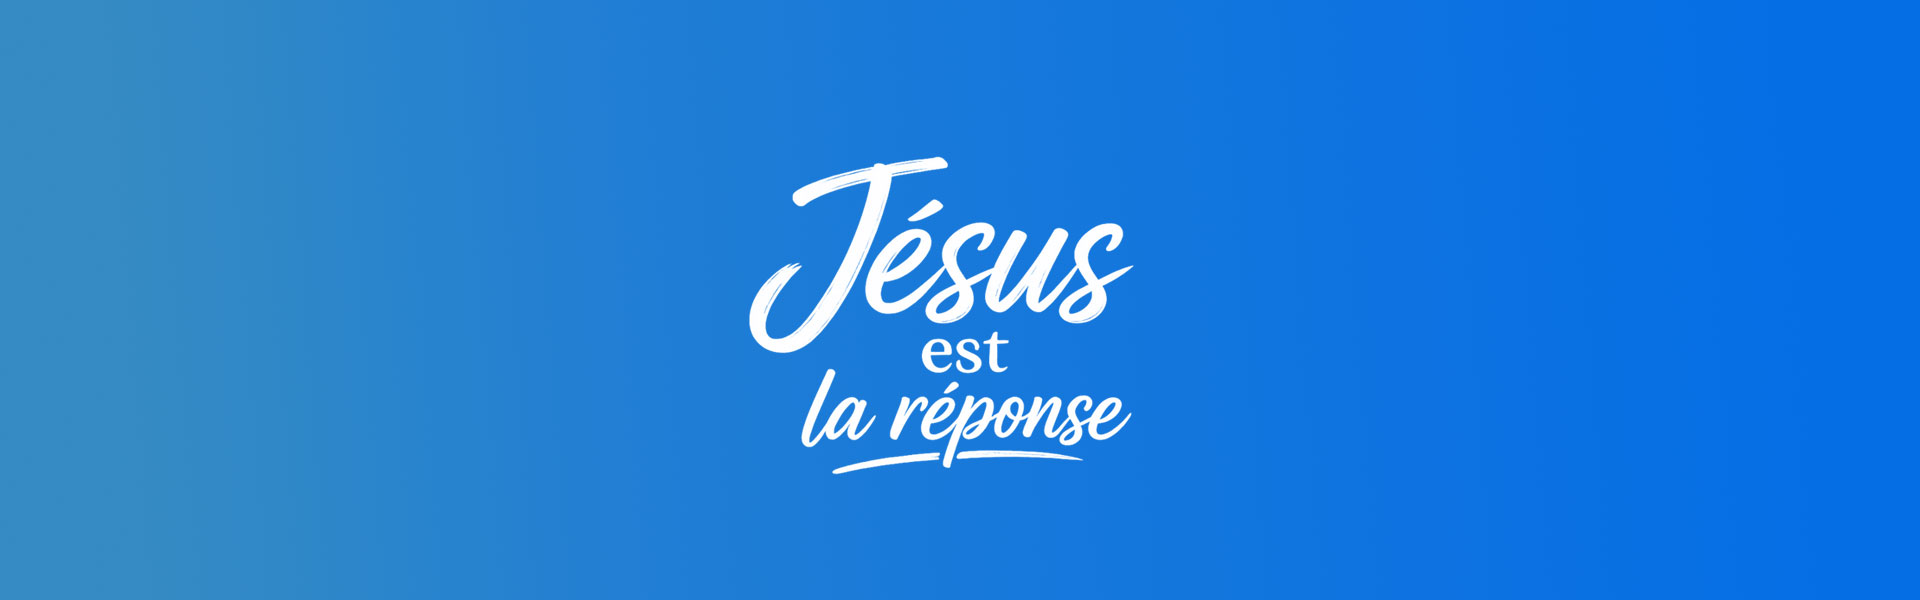
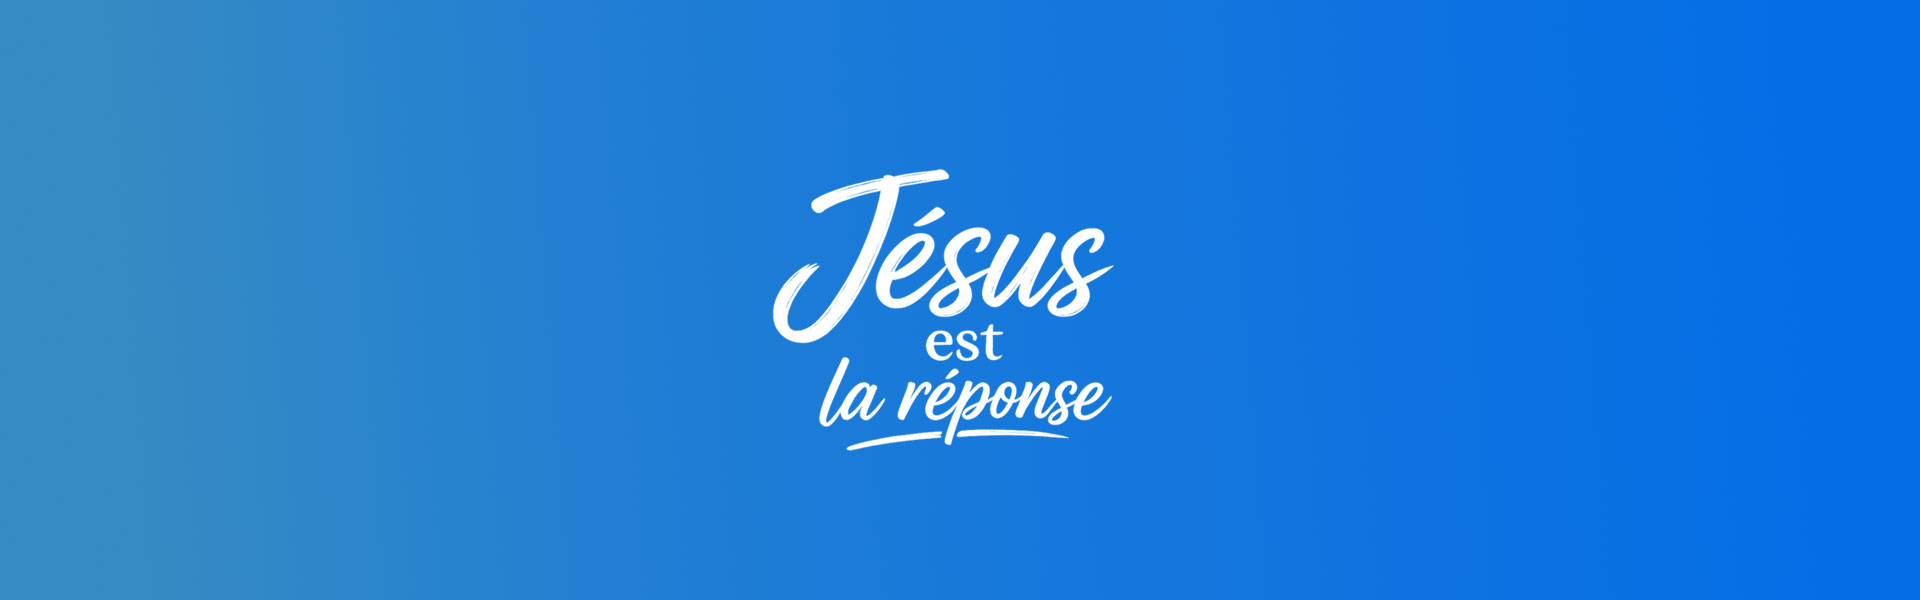
Modifications to About Us

Changed region(s): [[0.375, 0.24, 0.5938, 0.78]]

diff --git a/resources/views/pages/about.blade.php b/resources/views/pages/about.blade.php
@@ -7,28 +7,24 @@
     <h2>History</h2>
 
     <p>University Bible Fellowship begain in South Korea in 1961 by Dr. Samuel Lee (a presybterian pastor) and
-        Missionary Sarah Barry. Originally, they served South Korean students through a Bible reading club, the minsitry
-        expanded to various cities in the country and eventually became an international ministry expanding, to Germany,
-        North America, Latin America, and more. UBF currently has chapters in 96 countries.</p>
+        Missionary Sarah Barry. Originally, they served South Korean students through a Bible reading club.</p>
+
+    <p>The ministry grew to various cities within the country and in the 1970s expanded to Germany, North America,
+        Latin America, and the world. UBF currently has chapters in 96 countries.</p>
 
     <p>Canadian ministry began in 1982 in Winnipeg Manitoba and has since expanded to several cities across the country.
-        The Montreal ministry began in 1991. The church is composed of laymen, families and young adults.</p>
+    </p>
 
-    <p>Although our ministry has expanded, our main mission statement is student-oriented to bring the gospel to campus
-        students. We believe that our students in all education levels are our future, and once coming to believe in
+    <p>The Montreal ministry began in 1991. The church is composed of laymen, families and young adults.</p>
+
+    <h2>Mission and Vision</h2>
+
+    <p>Our main mission statement is student-oriented to bring the gospel to campus
+        students. We believe that our students are our future leaders. Once coming to believe in
         Jesus Christ as Lord and Saviour, they can be influential in all aspects of life and to transmit the good news
         of the gospel to their peers, the nation, and for the whole world.</p>
 
-    <p>For more inforation on the minstry, visit ubf.org.</p>
-
-    <h2>Ministries</h2>
-
-    <p>We serve several demographics:</p>
-    <ul>
-        <li>Professionals</li>
-        <li>Young Adults</li>
-        <li>Youth</li>
-    </ul>
+    <p>For more inforation on the minstry, visit <a href="https://ubf.org/about/origin" target="_blank">ubf.org</a>.</p>
 
     <h2>Statement of Faith</h2>
 

diff --git a/resources/views/pages/index.blade.php b/resources/views/pages/index.blade.php
@@ -14,8 +14,30 @@
 
             <x-card image='./images/other/classroom-circle-card.jpg' title='Ministères' alt="Groupe d'étude"
                 class="w-full max-w-sml md:w-[30%] md:max-w-none">
-                Nos études bibliques est parvenu en groupe et en personne. On préfère de se réunir à notre église mais
-                on offre aussi les études en ligne.
+                <p>On offre l'étude biblique pour:
+                <ul class='space-y-2'>
+                    <li class='flex items-start gap-x-1'>
+                        <span>&bull;</span>
+                        <span>Étudiants (CEGEP, écoles professionelles et l'université)</span>
+                    </li>
+                    <li class='flex items-start gap-x-1.5'>
+                        <span>&bull;</span>
+                        <span>Jeunes adultes / professionels</span>
+                    </li>
+                    <li class='flex items-start gap-x-1.5'>
+                        <span>&bull;</span>
+                        <span>Enfants (école primaire)</span>
+                    </li>
+                    <li class='flex items-start gap-x-1.5'>
+                        <span>&bull;</span>
+                        <span>Adolescents (école secondaire)</span>
+                    </li>
+                </ul>
+                </p>
+                <br />
+                <p>Nos études bibliques est parvenu en groupe et en personne. On préfère de se réunir à notre église
+                    mais
+                    on offre aussi les études en ligne.</p>
             </x-card>
 
             <x-card image='./images/other/earth-from-space-card.jpg' title='Pour le monde' alt='Monde'

diff --git a/resources/views/components/card.blade.php b/resources/views/components/card.blade.php
@@ -13,11 +13,11 @@
     </div>
 
     <!-- Content Wrapper -->
-    <div class="p-5 text-center">
-        <h3 class="text-xl font-bold text-slate-900 mb-2 tracking-tight">
+    <div class="p-5">
+        <h3 class="text-xl text-center font-bold text-slate-900 mb-2 tracking-tight">
             {{ $title }}
         </h3>
-        <p class="text-sm text-slate-700 leading-relaxed">
+        <p class="text-slate-700 leading-relaxed">
             {{ $slot }}
         </p>
     </div>

diff --git a/resources/views/components/events.blade.php b/resources/views/components/events.blade.php
@@ -3,6 +3,7 @@
     'title' => 'Événements',
     'startDate' => '16 juillet',
     'endDate' => '19 juillet',
+    'place' => 'CEGEP John Abbott - Ste-Anne-de-Bellevue, QC',
 ]) <!-- Events Section -->
 <section id='{{ $title }}' {{ $attributes->merge(['class' => 'relative bg-cover bg-center bg-no-repeat h-80']) }}
     style="background-image: url('{{ asset($image) }}')">
@@ -17,6 +18,10 @@
             <i class="fa-solid fa-calendar" aria-hidden="true"></i>
             <span class="date-text">{{ $startDate }}</span> au
             <span class="date-text">{{ $endDate }}</span>
+        </div>
+        <div>
+            <i class="fa-solid fa-map-marker" aria-hidden="true"></i>
+            <span class="date-text">{{ $place }}</span>
         </div>
     </div>
 

diff --git a/resources/views/layout.blade.php b/resources/views/layout.blade.php
@@ -23,7 +23,7 @@
                 l'église<br />de la communion biblique
                 universitaire<br />de Montréal!</x-hero>
             <x-events image='./images/2026_conf/2026-conf_franco_titre-mobile.jpg' title="Événements">2026 Conférence
-                Francophone</x-events>
+                biblique francophone</x-events>
         </div>
 
         <!-- Desktop Hero -->
@@ -33,7 +33,7 @@
                 l'église<br />de la communion biblique
                 universitaire <br />de Montréal!</x-hero>
             <x-events image='./images/2026_conf/2026-conf_franco_titre-desktop.jpg' title="Événements">2026 Conférence
-                Francophone</x-events>
+                biblique francophone</x-events>
         </div>
     @endif
 